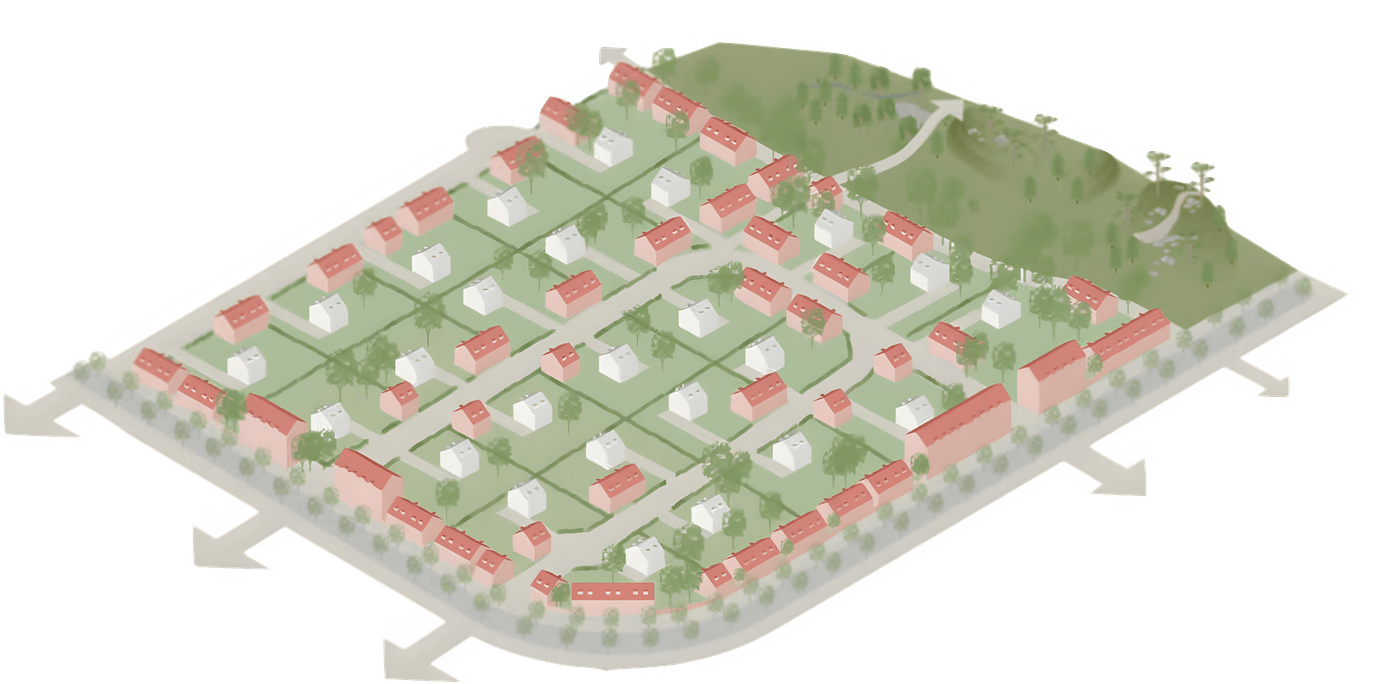
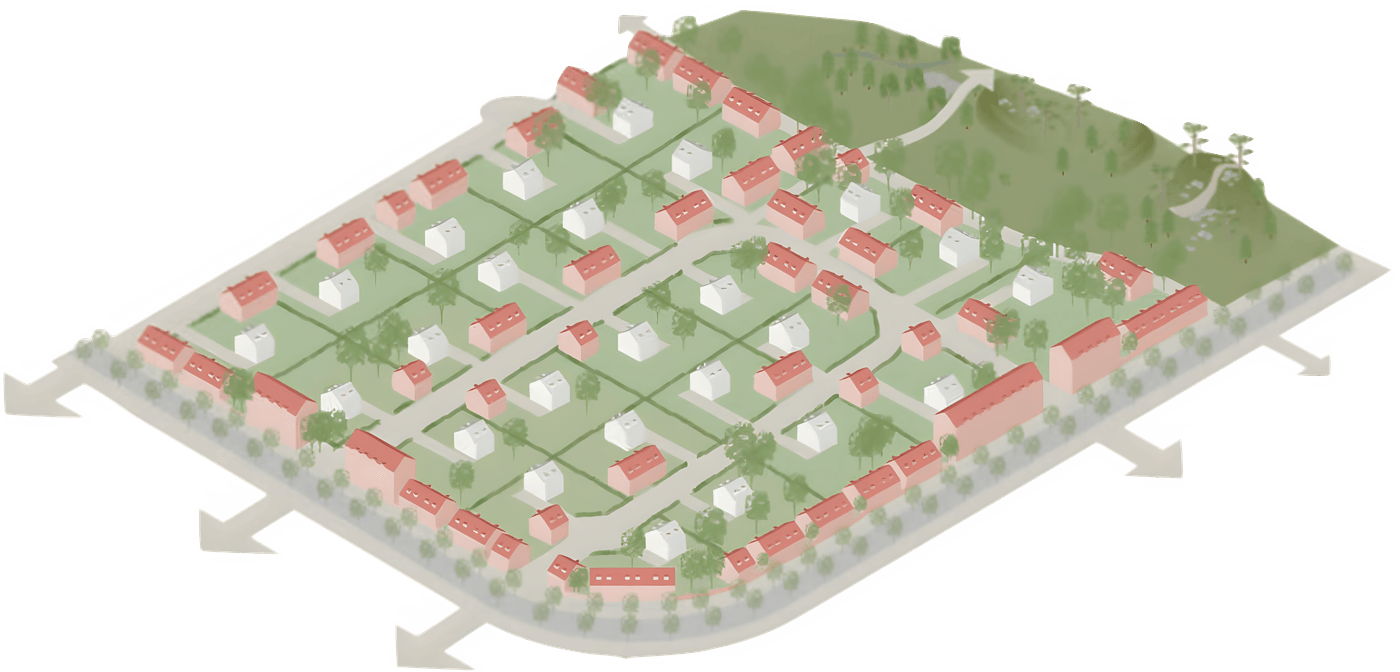
feat(visualizer): overlap islands, restyle labels, tighten crop
Interlock the before/after islands (negative margin + image stagger) and drop
the centre divider to kill empty space. Re-slice the renders to a tighter,
equal-scale crop. Labels move to the Anton display font, centred and top-aligned
over each island: Idag in off-white, Planerat in accent red.

diff --git a/src/components/sections/VisualizerSection.tsx b/src/components/sections/VisualizerSection.tsx
@@ -25,11 +25,14 @@ export default function VisualizerSection({ id }: VisualizerSectionProps) {
             href={PDF_HREF}
             target="_blank"
             rel="noopener noreferrer"
-            className="block rounded-xl bg-map-bg p-4 sm:p-6 border border-white/10 shadow-md shadow-black/20 transition duration-200 hover:-translate-y-0.5 hover:border-accent/60 hover:shadow-lg hover:shadow-black/30"
+            className="block rounded-xl bg-map-bg p-3 sm:p-4 border border-white/10 shadow-md shadow-black/20 transition duration-200 hover:-translate-y-0.5 hover:border-accent/60 hover:shadow-lg hover:shadow-black/30"
           >
-            <div className="flex flex-col sm:flex-row">
-              <figure className="min-w-0 flex-1 space-y-3">
-                <figcaption className="font-body text-base sm:text-lg font-semibold uppercase tracking-widest text-on-canvas/70">
+            {/* Islands overlap (negative margin) and the right one staggers DOWN so each
+                island's transparent corner nests into the other's, killing the centre gap.
+                Labels stay top-aligned and centred over their own image. */}
+            <div className="flex flex-col sm:flex-row sm:items-start">
+              <figure className="relative z-10 min-w-0 flex-1">
+                <figcaption className="mb-2 text-center font-display text-2xl sm:text-3xl uppercase tracking-wide text-on-canvas">
                   Idag
                 </figcaption>
                 <img
@@ -39,8 +42,8 @@ export default function VisualizerSection({ id }: VisualizerSectionProps) {
                   className="w-full h-auto"
                 />
               </figure>
-              <figure className="min-w-0 flex-1 space-y-3 mt-6 border-t border-white/10 pt-6 sm:mt-0 sm:ml-6 sm:border-t-0 sm:border-l sm:pt-0 sm:pl-6">
-                <figcaption className="font-body text-base sm:text-lg font-semibold uppercase tracking-widest text-on-canvas/70">
+              <figure className="relative min-w-0 flex-1 mt-6 sm:mt-0 sm:-ml-24">
+                <figcaption className="mb-2 text-center font-display text-2xl sm:text-3xl uppercase tracking-wide text-accent">
                   Planerat
                 </figcaption>
                 <img
